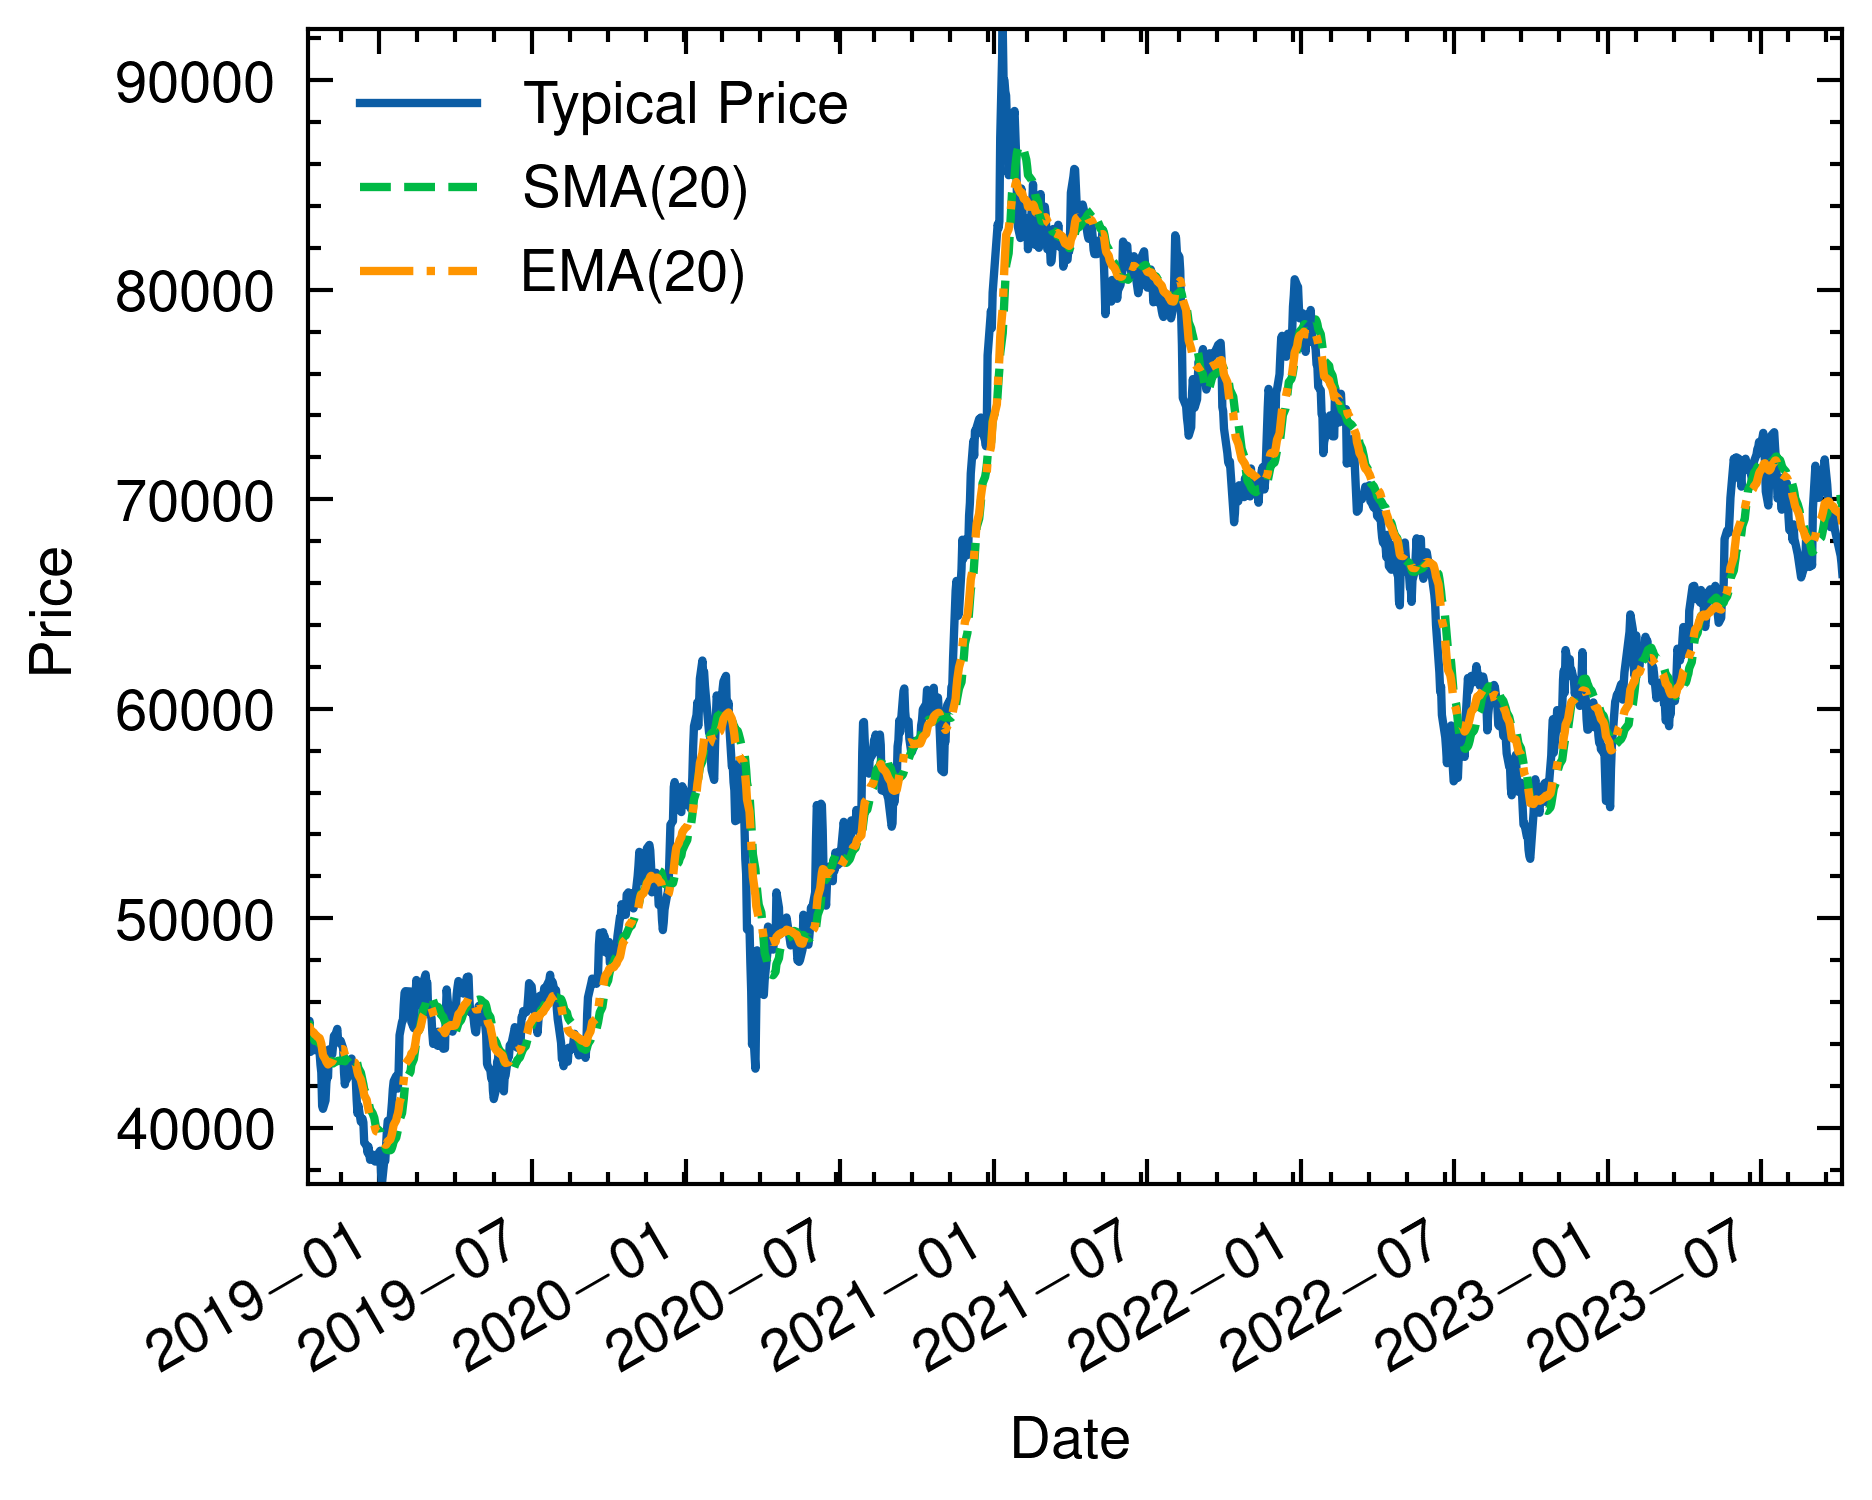
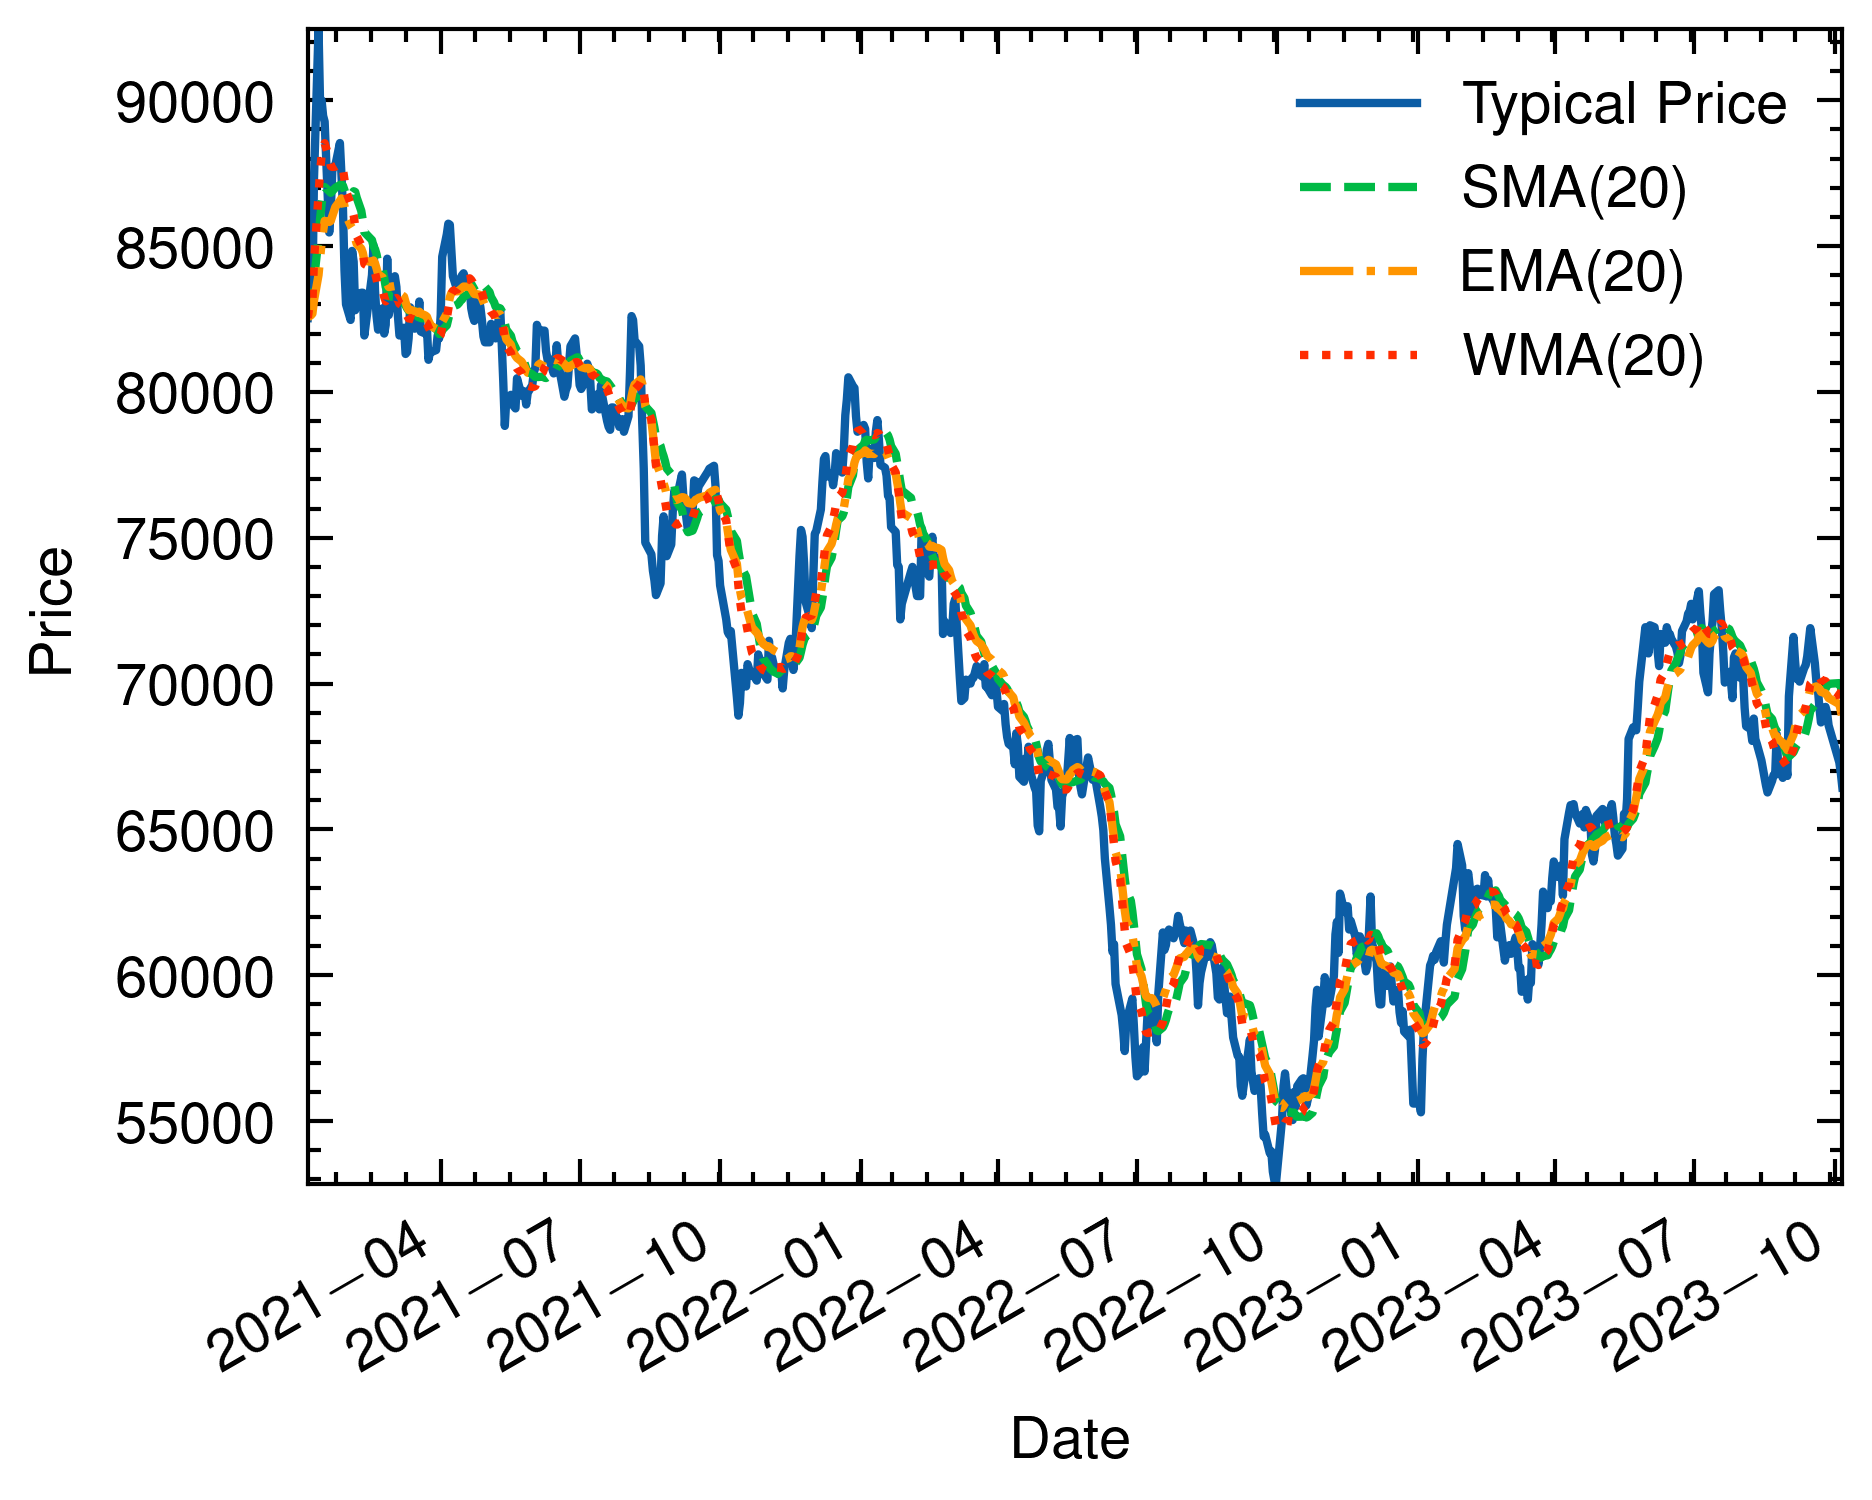
Implement WMA

diff --git a/src/main.rs b/src/main.rs
@@ -1,15 +1,18 @@
 use peroxide::fuga::*;
 use fmp::api::HistoricalPriceFull;
-use fmp::ta::{sma, ema};
+use fmp::ta::{sma, ema, wma};
 
 fn main() -> Result<(), Box<dyn std::error::Error>> {
     let api_key_dir = "./api_key.txt";
     let api_key = std::fs::read_to_string(api_key_dir)?;
 
     let symbol = "005930.KS";
+    let from = "2021-01-01";
+    let to = "2023-10-06";
 
     let mut samsung_price = HistoricalPriceFull::new(symbol);
-    samsung_price.download_full(&api_key)?;
+    //samsung_price.download_full(&api_key)?;
+    samsung_price.download_interval(&api_key, from, to)?;
     let mut df = samsung_price.to_dataframe_simple();
     let close: Vec<f64> = df["close"].to_vec();
     let high: Vec<f64> = df["high"].to_vec();
@@ -17,10 +20,12 @@ fn main() -> Result<(), Box<dyn std::error::Error>> {
     let tp = close.iter().zip(high.iter()).zip(low.iter()).map(|((c, h), l)| (c + h + l) / 3f64).collect::<Vec<f64>>();
     let sma = sma(&tp, 20);
     let ema = ema(&tp, 20);
+    let wma = wma(&tp, 20);
 
     df.push("tp", Series::new(tp));
     df.push("sma", Series::new(sma));
     df.push("ema", Series::new(ema));
+    df.push("wma", Series::new(wma));
 
     df.print();
 

diff --git a/src/ta.rs b/src/ta.rs
@@ -26,3 +26,23 @@ pub fn ema(v: &[f64], period: usize) -> Vec<f64> {
     }
     res
 }
+
+/// Weighted Moving Average
+pub fn wma(v: &[f64], period: usize) -> Vec<f64> {
+    let mut res = vec![0f64; v.len()];
+    let denom = ((period * (period + 1)) / 2) as f64;
+    let mut total = 0f64;
+    let mut numer = 0f64;
+    for i in 0..v.len() {
+        if i >= period {
+            numer = numer + period as f64 * v[i] - total;
+            total = total + v[i] - v[i - period];
+            res[i] = numer / denom;
+        } else {
+            numer = numer + (i + 1) as f64 * v[i];
+            total = total + v[i];
+            res[i] = numer / (((i + 1) * (i + 2)) / 2) as f64;
+        }
+    }
+    res
+}

diff --git a/script/ma_plot.py b/script/ma_plot.py
@@ -12,6 +12,7 @@ x = pd.to_datetime(x) # datetime
 tp = df['tp']
 sma = df['sma']
 ema = df['ema']
+wma = df['wma']
 
 # Plot params
 pparam = dict(
@@ -29,6 +30,7 @@ with plt.style.context(["science", "nature"]):
     ax.plot(x, tp, label='Typical Price')
     ax.plot(x, sma, '--', label='SMA(20)')
     ax.plot(x, ema, '-.', label='EMA(20)')
+    ax.plot(x, wma, ':', label='WMA(20)')
     # Tick angle
     plt.setp(ax.get_xticklabels(), rotation=30, horizontalalignment='right')
     ax.legend()
